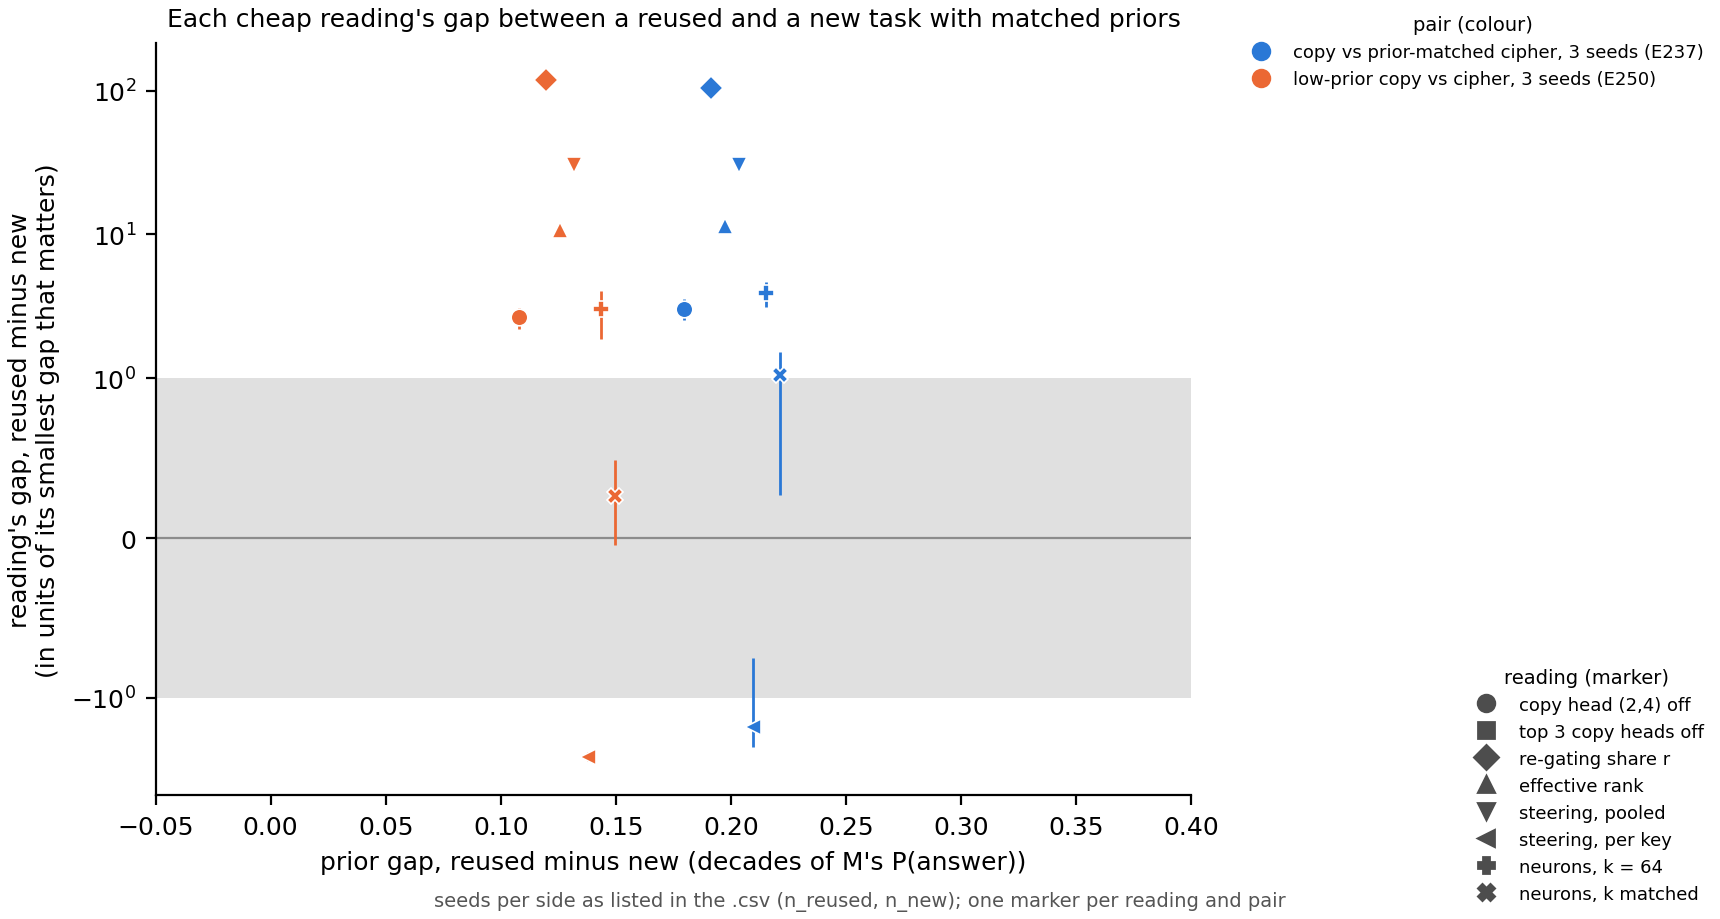
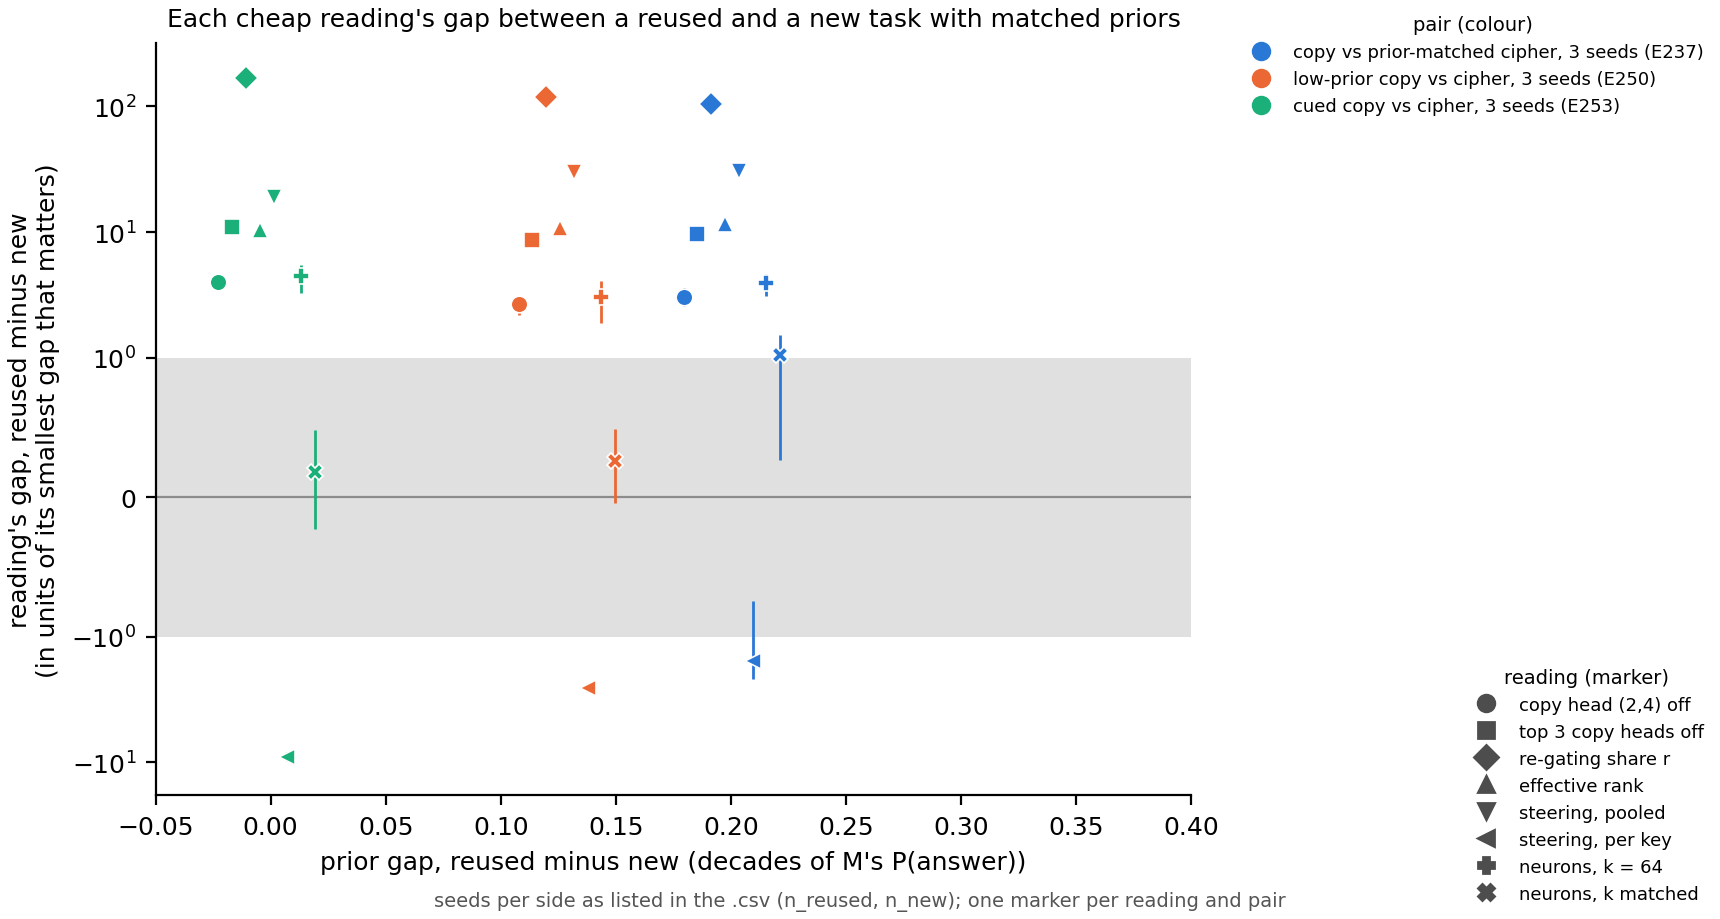
P2.57 prior_matched: figure now draws E253's cued copy and khead's k=3; time estimates from E252/E253 logs

diff --git a/experiments/prior_matched/plot.py b/experiments/prior_matched/plot.py
@@ -1,7 +1,7 @@
 """P2.57's figure (no GPU): every prior-matched pair of a reused and a new task, one colour per pair. x is the pair's
 prior gap (M's log10 P(answer), reused minus new); y is each reading's gap (mean over the reused seeds minus mean over
 the new), in units of that reading's smallest gap that matters (E237's band: the larger 3-seed range of copy and the
-prior-matched cipher; k = 3 takes run A's, read at its seeds 0-2). One marker per reading; the bar is the seed-spread
+prior-matched cipher at seeds 0-2). One marker per reading; the bar is the seed-spread
 interval (lowest reused minus highest new, to highest reused minus lowest new). A reading that follows the prior sits
 inside the grey band (|y| <= 1) at these small x; one that follows the mechanism sits outside it.
 
@@ -60,16 +60,13 @@ def pairs() -> dict[str, tuple[float, Rows, Rows]]:
     if (f := EXPERIMENTS / "cued_copy" / "results" / "table.json").is_file():
         rows = W.read_json(f)["rows"]
         a, b = ([{k: T2.num(v) for k, v in r.items()} for r in rows[t]] for t in ("cuedcopy", "cipher"))
-        out["cued copy vs cipher (cued copy run)"] = (prior_gap(a, b), a, b)
+        out["cued copy vs cipher, 3 seeds (E253)"] = (prior_gap(a, b), a, b)
     return out
 
 
 def bands(ps: dict[str, tuple[float, Rows, Rows]]) -> dict[str, float]:
     _, a, b = ps["copy vs prior-matched cipher, 3 seeds (E237)"]
-    out = {p: W.band([r[p] for r in a], [r[p] for r in b]) for p in W.READINGS}
-    if (f := W.RESULTS / "a" / "summary.json").is_file():
-        out["k3_share"] = T2.num(W.read_json(f)["calls"]["k3_share"]["band"])
-    return out
+    return {p: W.band([r[p] for r in a], [r[p] for r in b]) for p in W.READINGS}
 
 
 def main() -> None:
